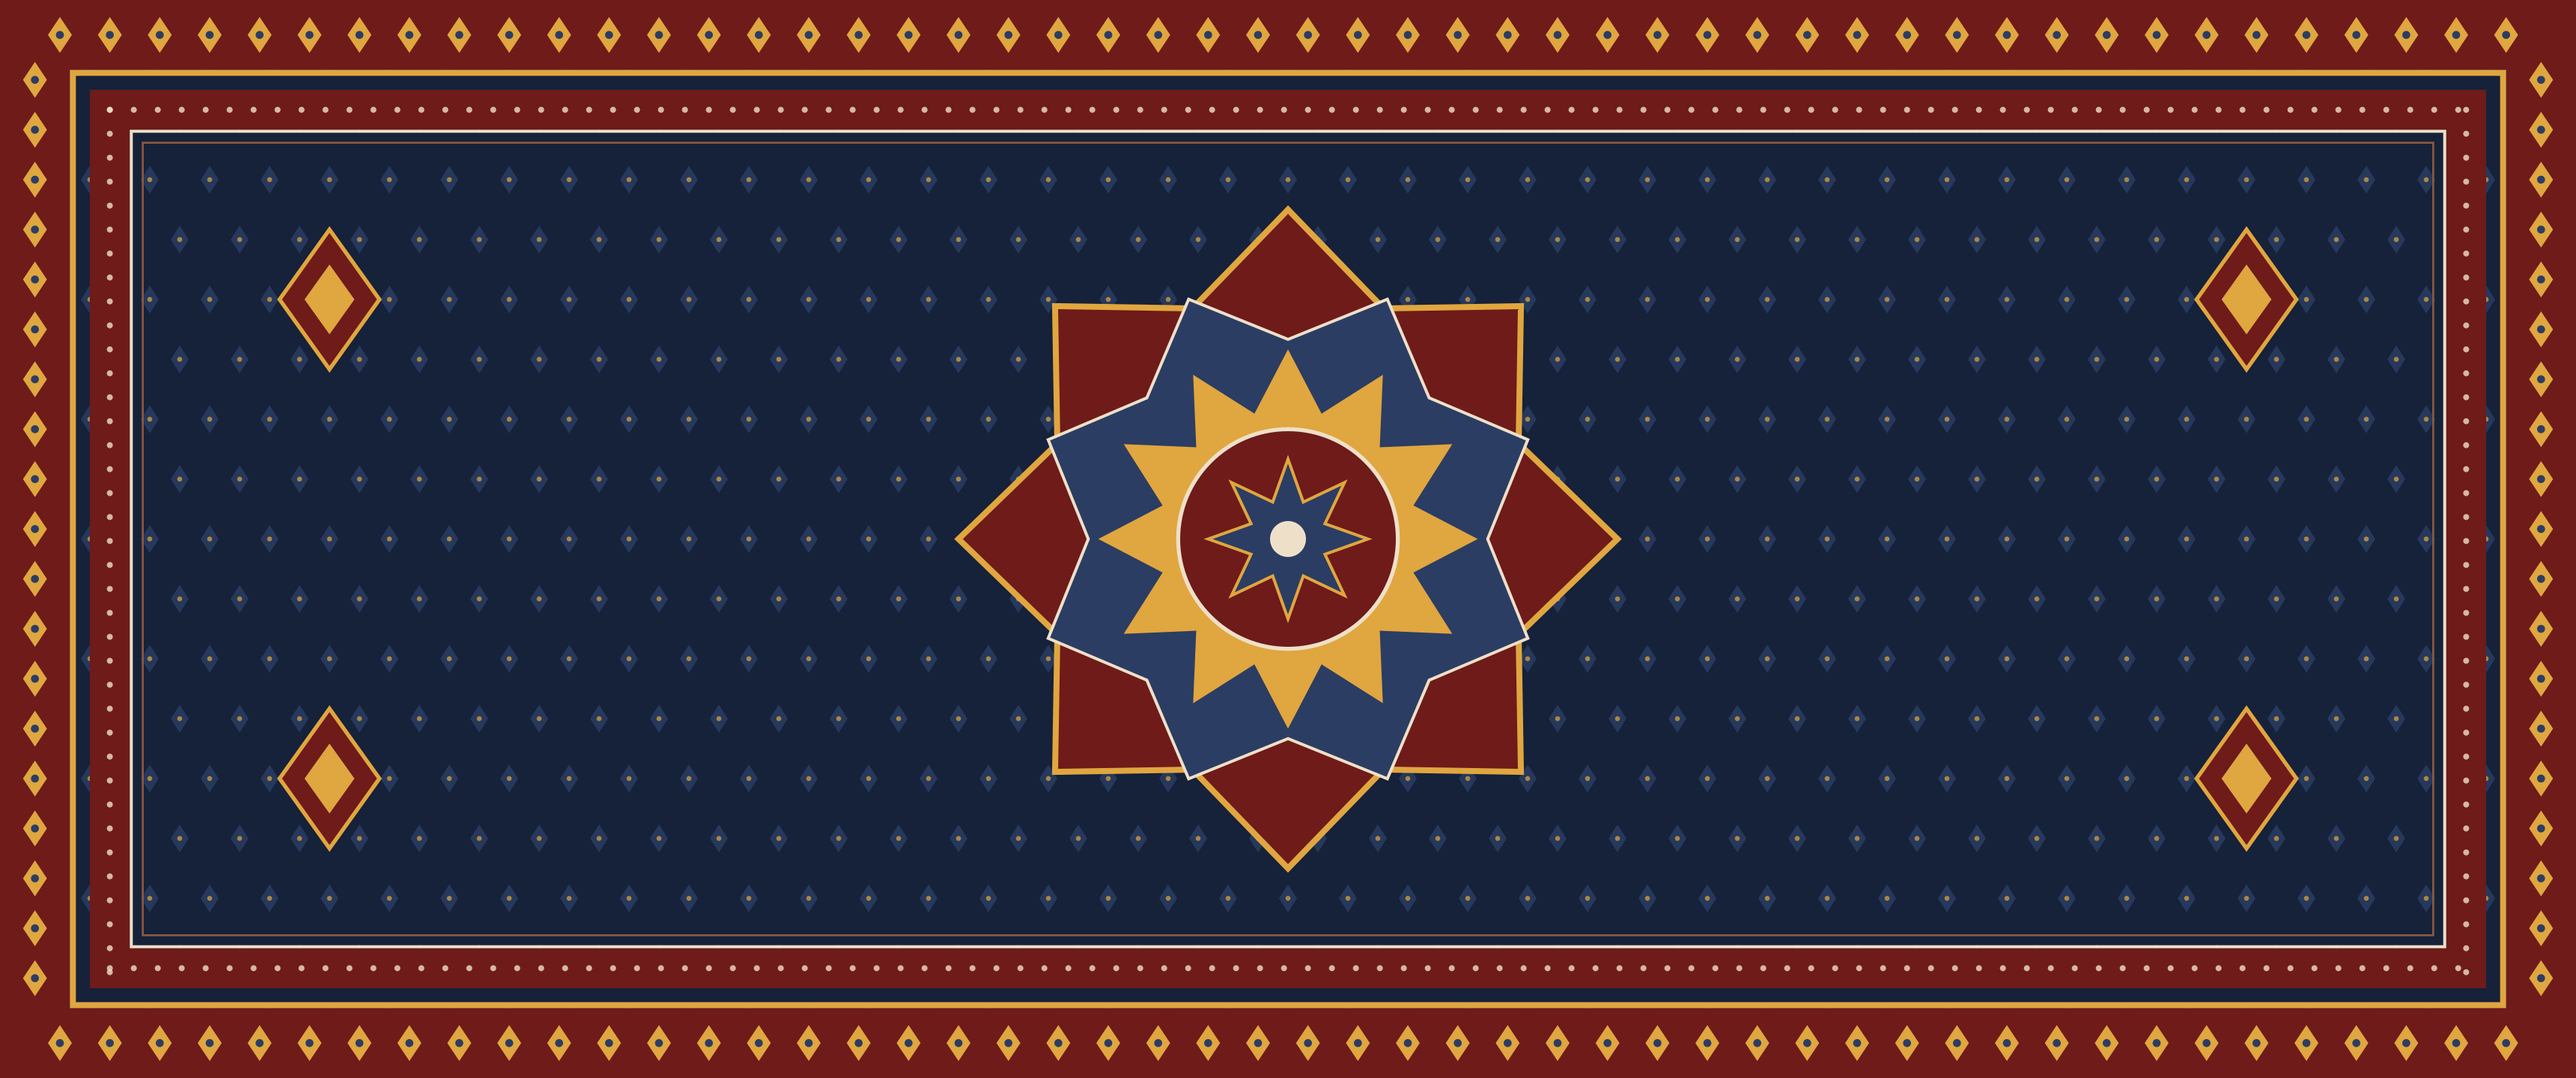
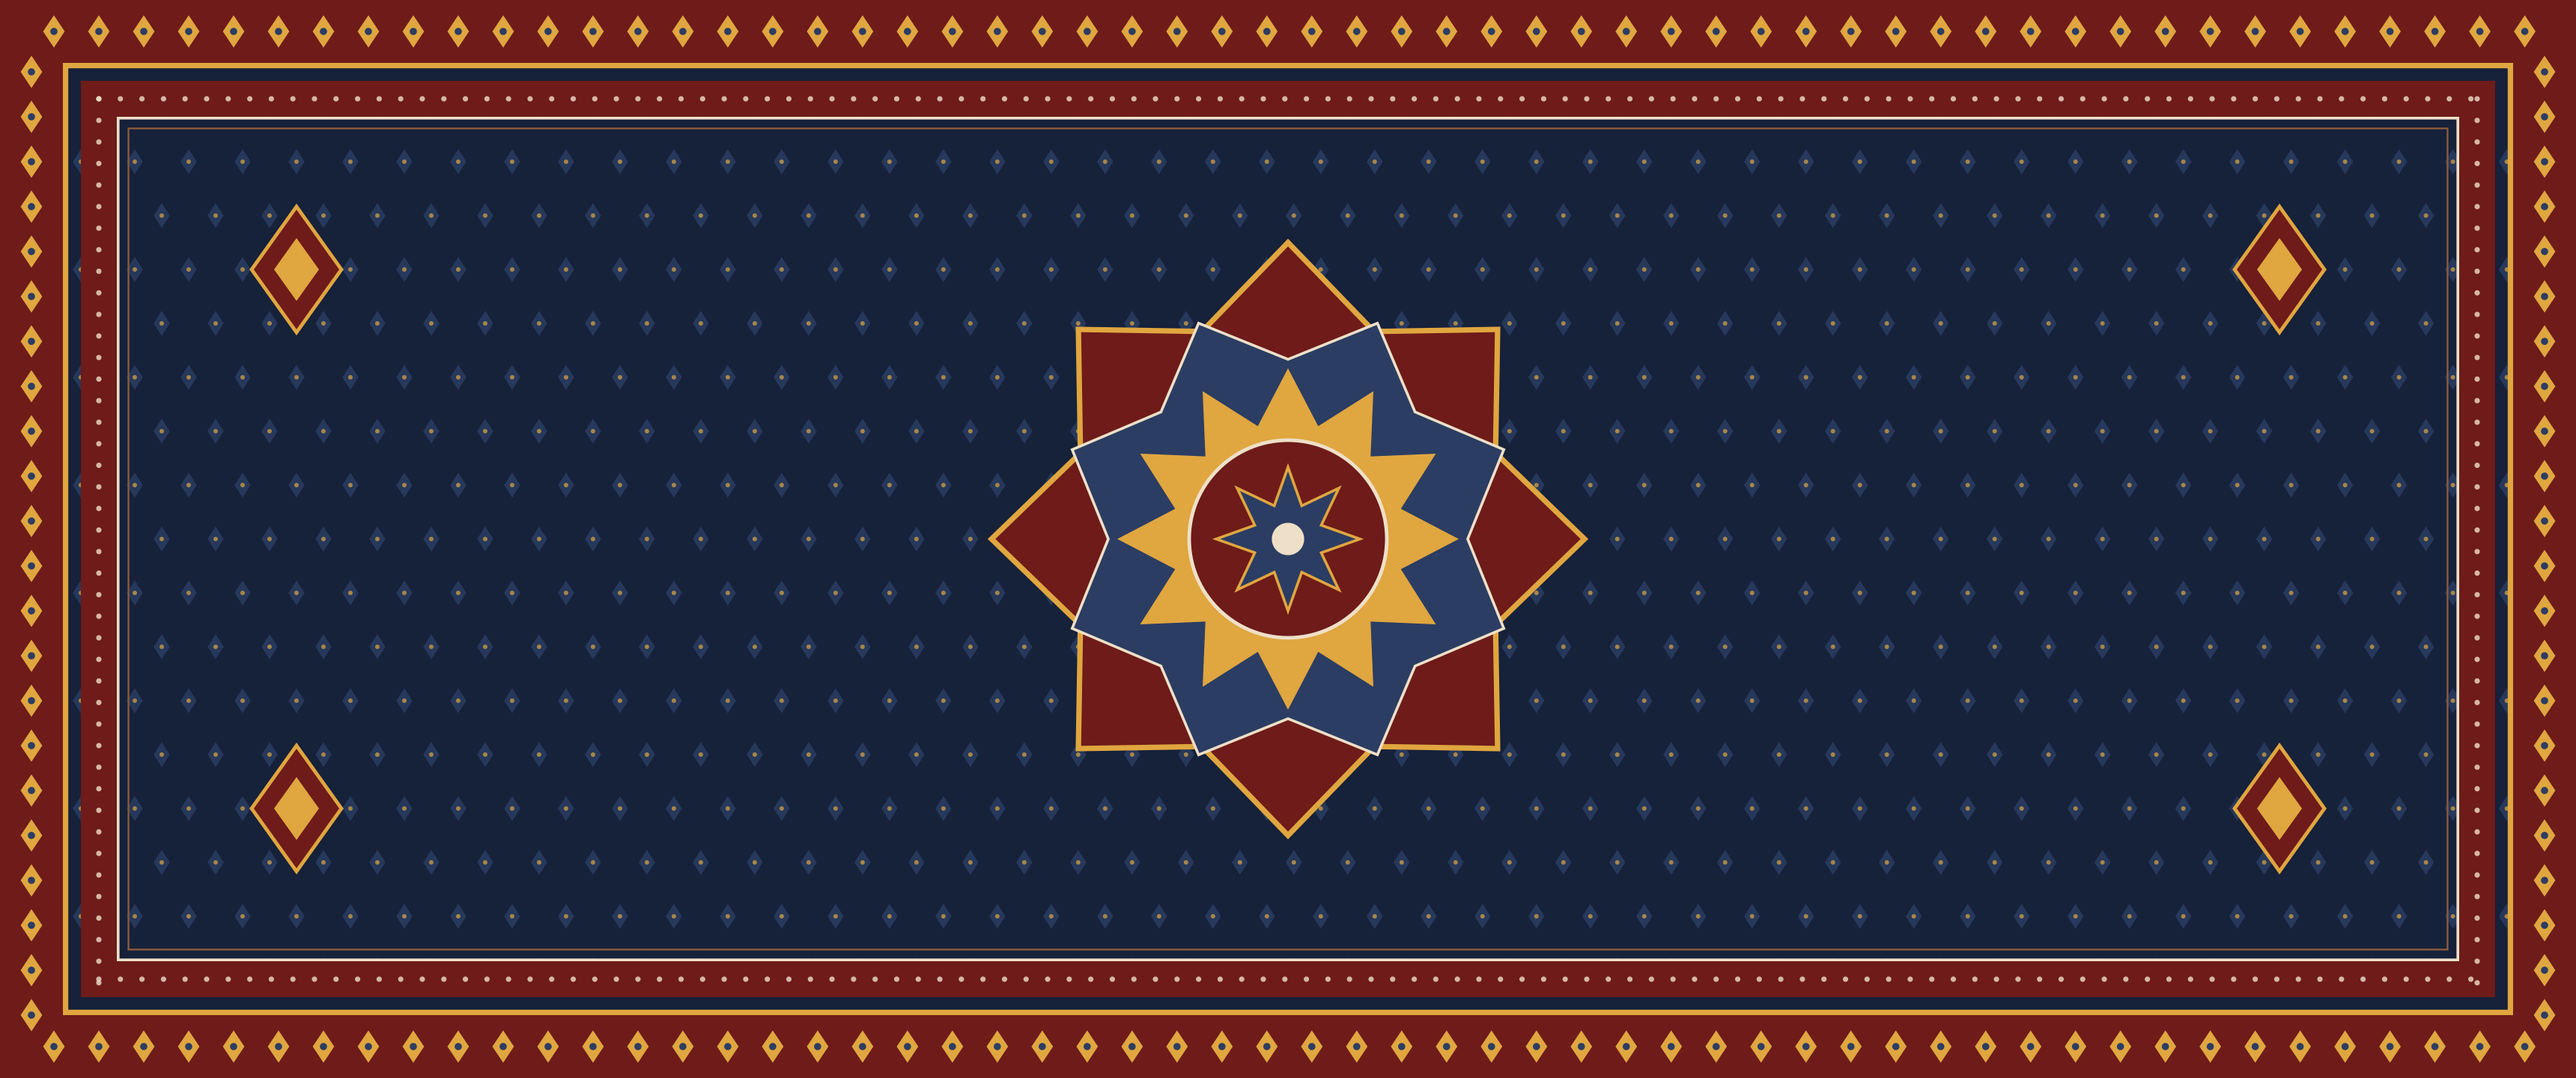
Use one full-height ultrawide version of each wallpaper
Drops the 16x9- copies and re-renders each background at 3440x1440
from its full 1200-tall design, widened rather than trimmed, so
nothing is cropped top or bottom on an ultrawide monitor.

Changed region(s): [[0.0, 0.0, 0.9953, 1.0]]

diff --git a/README.md b/README.md
@@ -10,6 +10,6 @@ A dark [Omarchy](https://omarchy.org) theme for *The Big Lebowski*: rug-dark bro
 omarchy theme install https://github.com/badger2k/omarchy-the-dude-theme
 ```
 
-The backgrounds are original illustrations made for this theme. Each comes in two sizes: 3440×1440 ultrawide, and 2560×1440 (16:9) in the files prefixed `16x9-`.
+The backgrounds are original illustrations made for this theme, sized 3440×1440 for ultrawide monitors.
 
 ![The Dude lock screen](preview-unlock.png)
